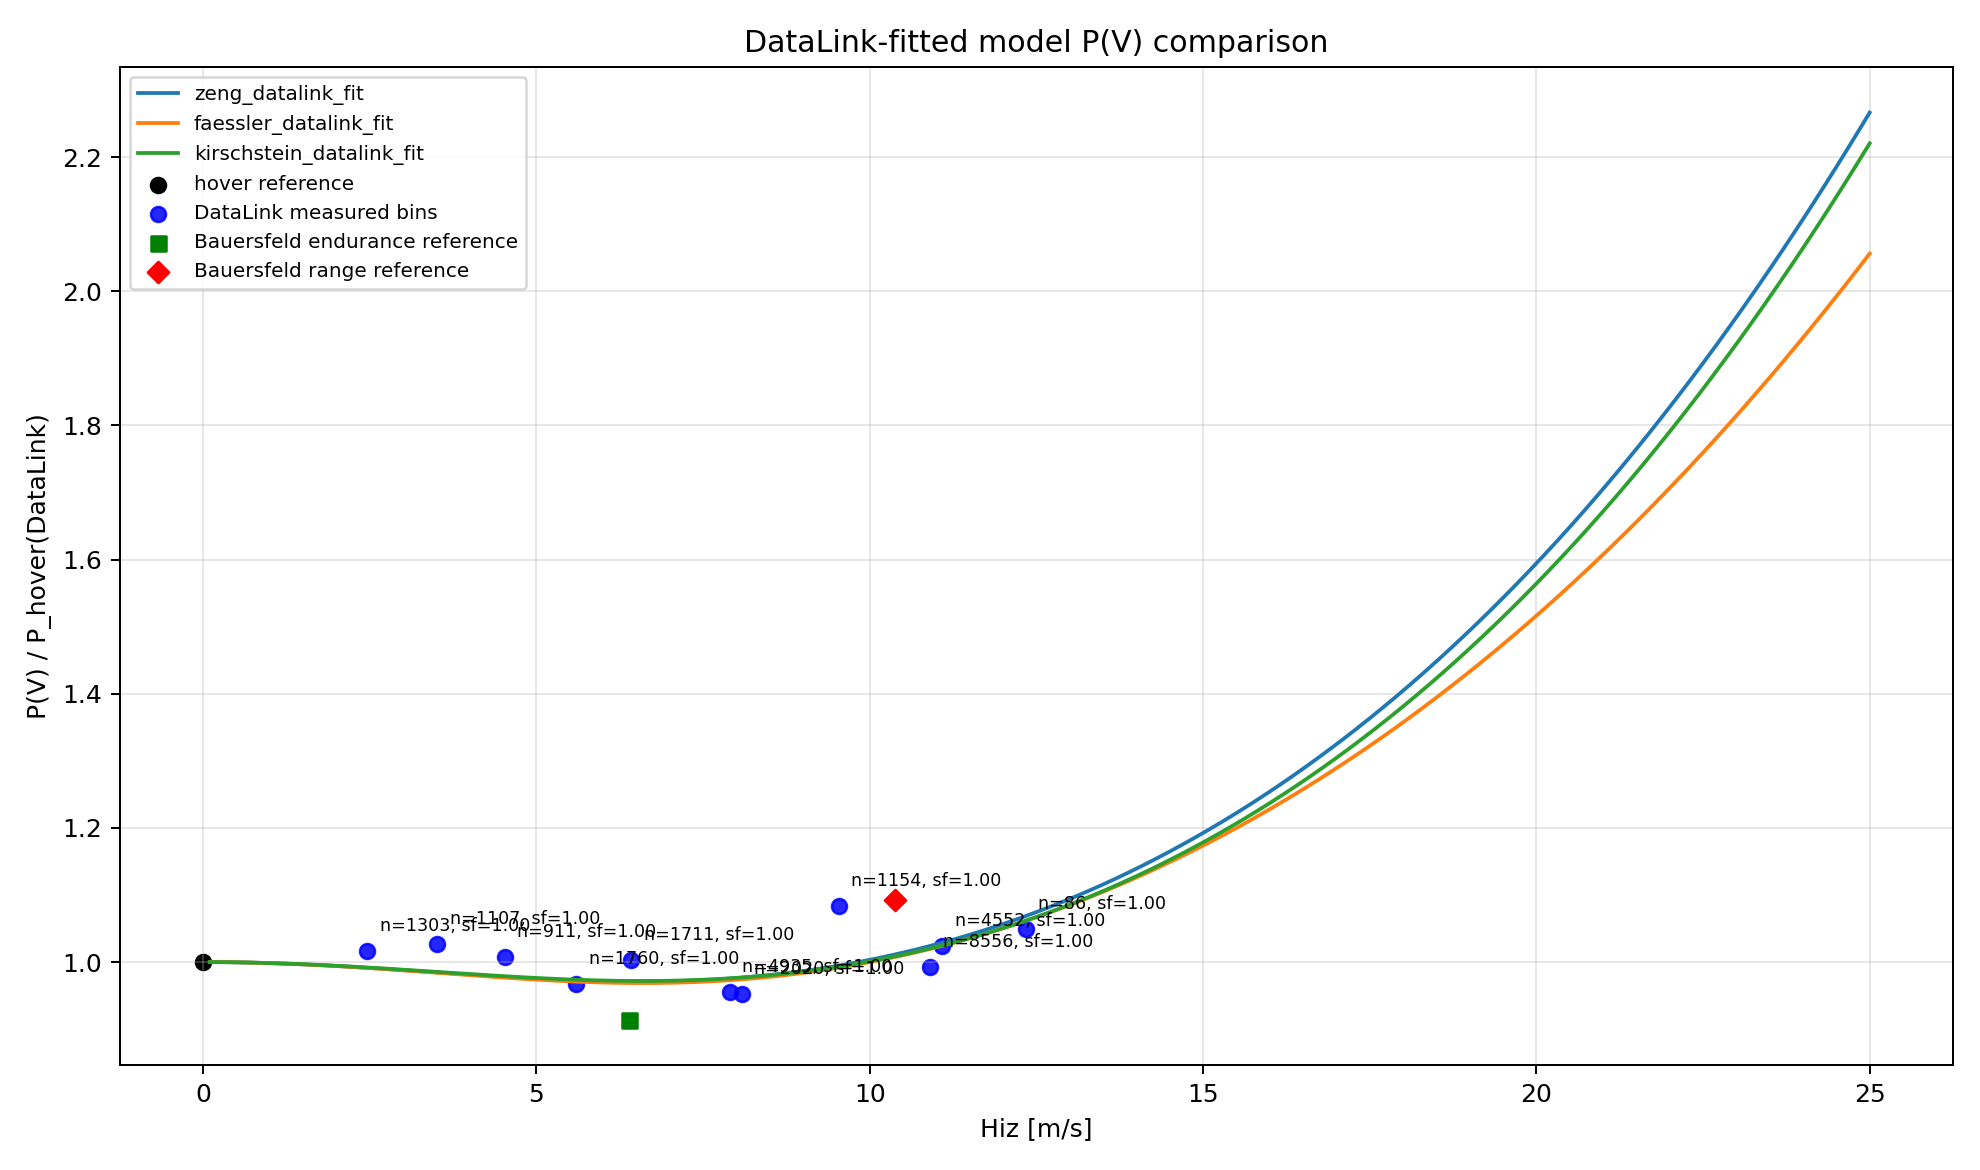
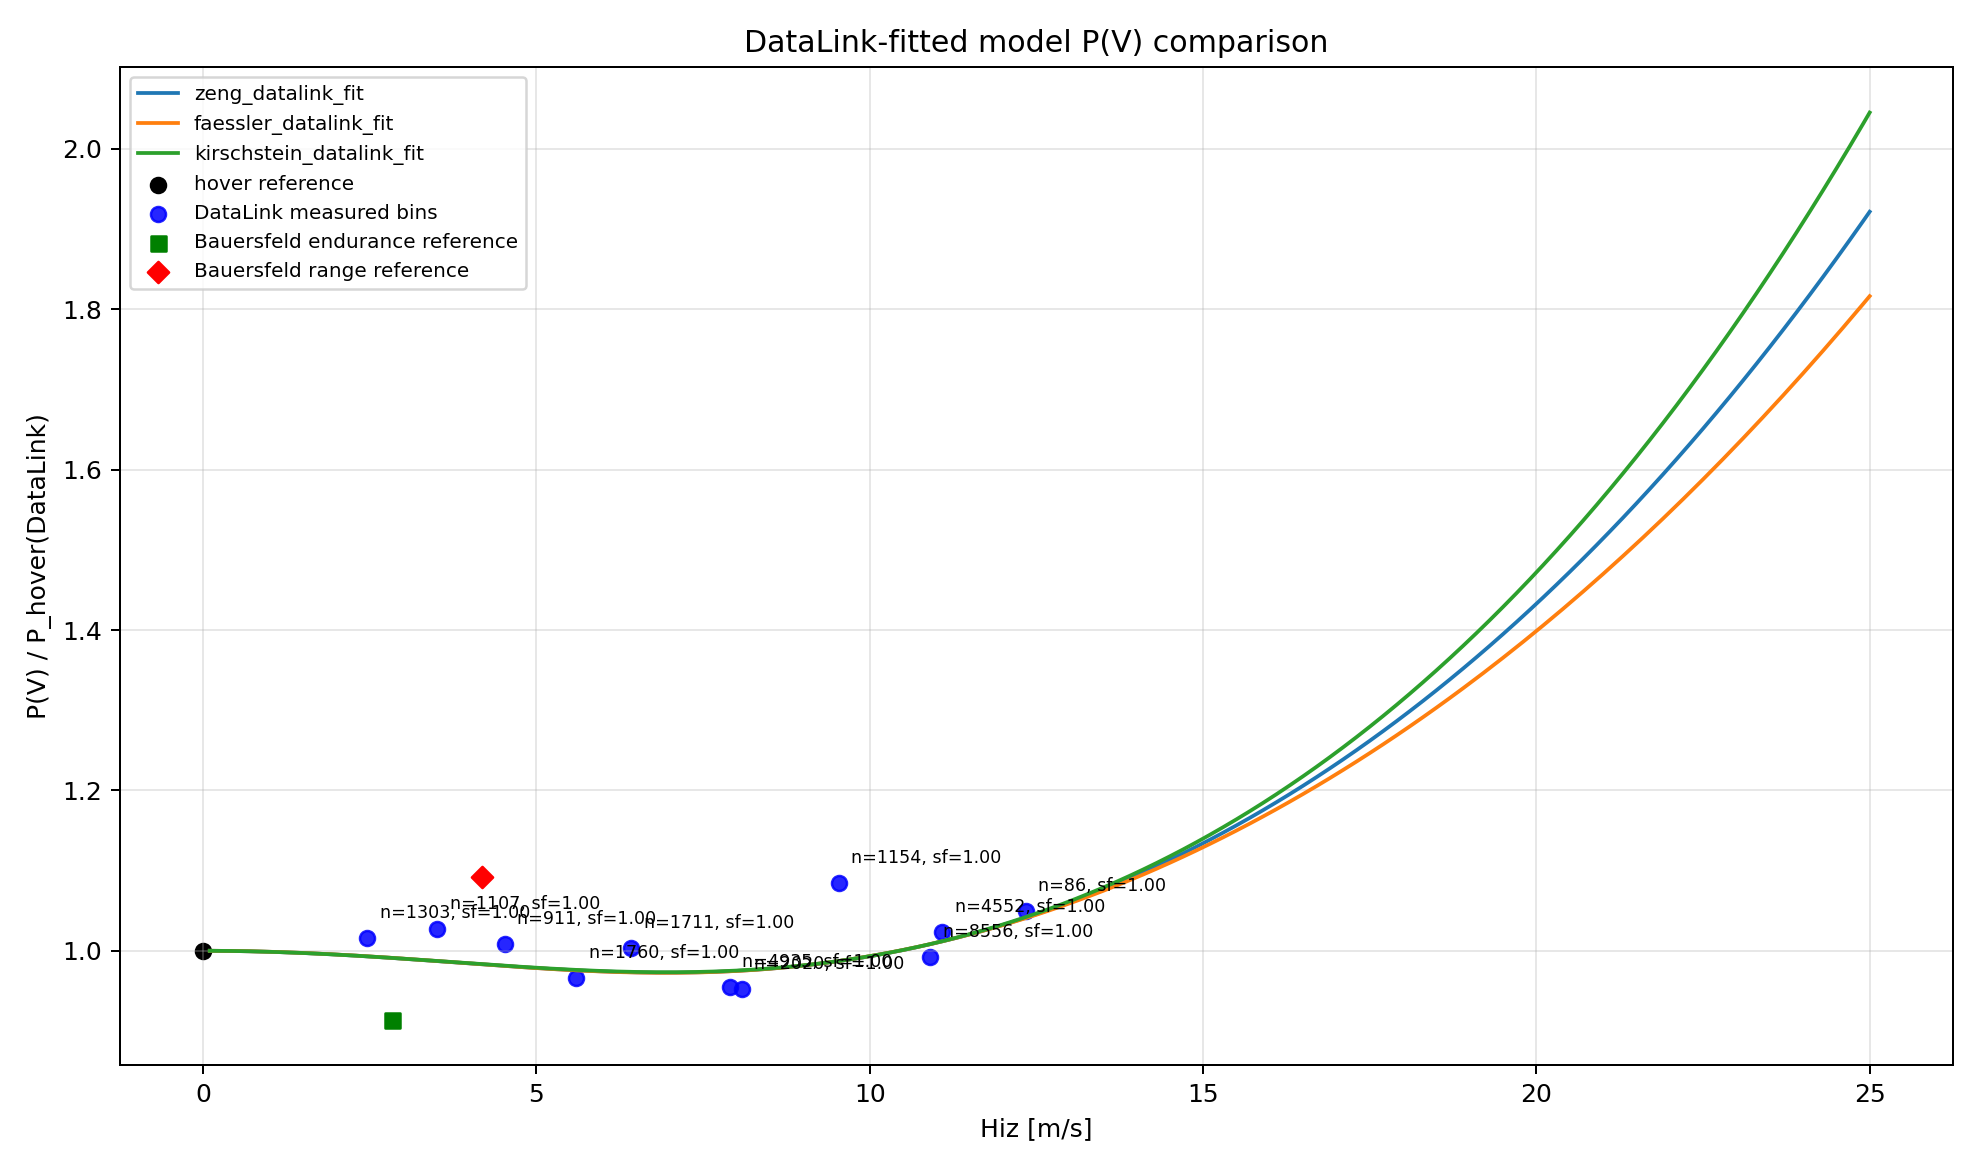
Menu 3 defaults: theoretical Utip [2] and plot generation [e]
- Default the Utip source to the datasheet-based theoretical option
- Default plot generation to 'e'
- README: add guidance to leave all defaults unchanged and enter only speeds
  unless using advanced options; condense detailed prompt explanations
  into a short advanced-use note

diff --git a/menzil2.py b/menzil2.py
@@ -5446,11 +5446,11 @@ def drone_simulasyon():
                 )
 
                 graph_raw = (
-                    input("Seçilen modeller için grafik oluşturulsun mu? (e/h) [h]: ")
+                    input("Seçilen modeller için grafik oluşturulsun mu? (e/h) [e]: ")
                     .strip()
                     .lower()
                 )
-                make_graph = graph_raw == "e"
+                make_graph = graph_raw != "h"
 
                 print(
                     "\nFiziksel parametre transferi: fitten çözülen boyutsuz aero "
@@ -5482,7 +5482,7 @@ def drone_simulasyon():
                         "kütleyle; Fırfır ölçümüne göre % fark raporlanır)"
                     )
                     print("3) Elle gir (m/s)")
-                    utip_secim = input("Utip seçimi (1/2/3) [1]: ").strip() or "1"
+                    utip_secim = input("Utip seçimi (1/2/3) [2]: ").strip() or "2"
                     if utip_secim == "2":
                         apply_utip_mode = "theoretical_datasheet"
                     elif utip_secim == "3":

diff --git a/README.md b/README.md
@@ -40,12 +40,13 @@ Run the program with:
 python menzil2.py
 ```
 
-The script opens an interactive menu. Enter the aircraft mass, battery configuration, motor selection, and requested analysis mode when prompted. For current work, the recommended path is the `Preset/log DataLink fit analysis` option (menu option 3), followed by the DataLink-fitted model selection. That flow then asks two additional questions:
+The script opens an interactive menu. Enter the aircraft mass, battery configuration, motor selection, and requested analysis mode when prompted. For current work, the recommended path is the `Preset/log DataLink fit analysis` option (menu option 3).
 
-- **Physical parameter transfer** (`e`/`h`, default `e`): rebuilds the fitted curves from the entered aircraft's physics instead of reusing the frozen calibration shape.
-- **Tip speed (Utip) source**: (1) the calibration aircraft's measured value, (2) a theoretical value interpolated from the T-MOTOR U8 Lite KV190 datasheet thrust-to-RPM tables (G28x9.2 or G29x9.5, chosen by the entered propeller) with the percent difference against the measured value reported, or (3) manual entry.
+**If you are not an advanced user, simply press Enter at every prompt to accept the defaults, and only type the flight speeds you want evaluated when the speed list is requested.** The defaults already select the calibrated fit source, all three DataLink-fitted models, the physical parameter transfer with the datasheet-based theoretical tip speed, and graph generation.
 
-Selecting all DataLink-fitted models with graphs enabled produces the power-ratio and range/time figures shown below. The empirical interpolation figure is produced separately by the raw DataLink data viewer (menu option 5).
+Advanced users can override the transfer (`h` reuses the frozen calibration curve shape instead of rebuilding it from the entered aircraft's physics), the tip-speed source (datasheet-based theoretical Utip is the default; the calibration aircraft's measured value or a manual value can be selected instead), and the graph option at the corresponding prompts.
+
+Selecting all DataLink-fitted models produces the power-ratio and range/time figures shown below. The empirical interpolation figure is produced separately by the raw DataLink data viewer (menu option 5).
 
 ### Battery Chemistry Requirement
 

diff --git a/CLAUDE.md b/CLAUDE.md
@@ -60,12 +60,13 @@ Multicopter batarya ve menzil analiz araç seti (Türkçe proje). Fiziksel güç
   yeniden kurar. Özdeşlik garantisi test edilir (Fırfır→Fırfır birebir). Menüde
   varsayılan açıktır; "h" ile eski donmuş-şekil davranışına dönülür. Batarya değişimi
   kütleyi değiştiriyorsa yeni TOPLAM kütle girilmelidir.
-- **Utip kaynağı (transfer içinde):** 1) Fırfır ölçümü (varsayılan), 2) teorik —
+- **Utip kaynağı (transfer içinde):** 1) Fırfır ölçümü, 2) teorik (VARSAYILAN) —
   `estimate_theoretical_utip_datasheet` KV190 datasheet thrust→RPM eğrisinden
   (`u8lite_kv190_g28/g29_thrust_rpm` tabloları, pervaneye göre 28"/29") girilen
   kütleyle Utip türetir ve Fırfır ölçümüne göre % farkı raporlar; tablo yoksa
   pervane benzerliği (`estimate_theoretical_utip_similarity`) fallback'i,
   3) elle giriş. Başka motor/pervane konfigürasyonlarına genelleme planlanan iş.
+  Menü-3'te grafik üretimi de varsayılan olarak açıktır (`[e]`).
 - **DataLink RPM ölçeği (DÜZELTİLDİ):** ham `.udat` RPM alanı eRPM/10'dur
   (36N42P → 21 kutup çifti); parser `DATALINK_RPM_SCALE = 10/21` ile mekanik
   RPM'e çevirir. Doğrulama çapası: hover 3100 g/rotor → datasheet ~2216 RPM,
